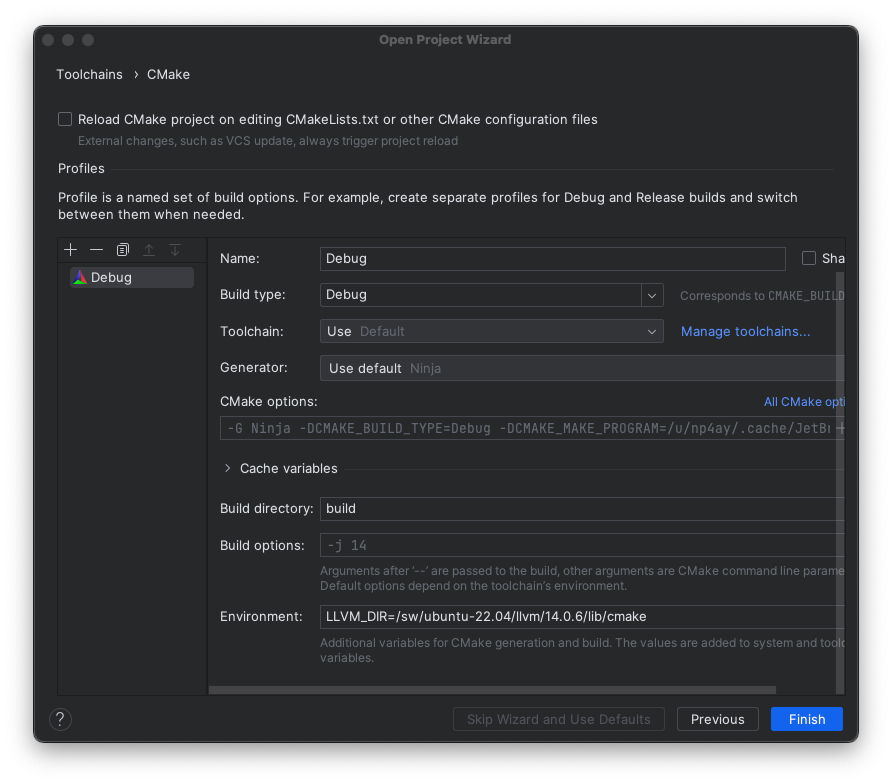
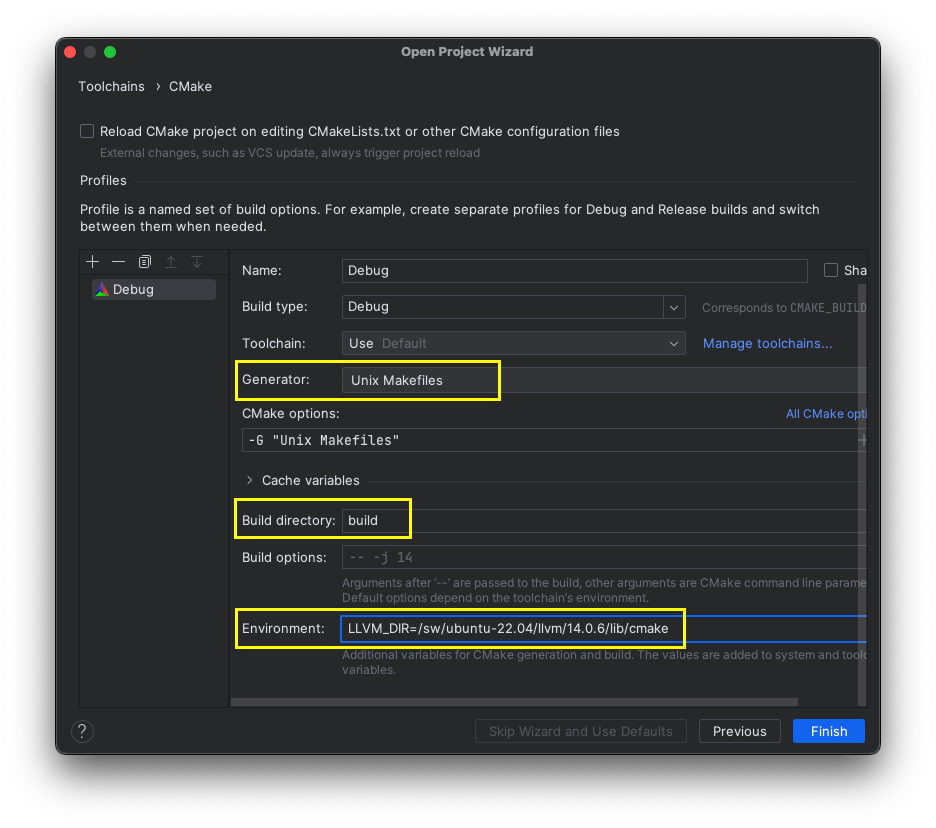
update screenshot to use makefile

Changed region(s): [[0.0303, 0.0306, 0.9686, 0.9796], [0.2422, 0.3061, 0.3027, 0.3367]]

diff --git a/docs/clion_thin_client.md b/docs/clion_thin_client.md
@@ -70,8 +70,8 @@ the `topdir` variable in `conf/modules/tipc/F23` to the actual location of the
 To confirm the module was successfully loaded check the value of the `TIPCLANG`
 environment variable.  
 ```bash
-$ echo $TIPCLANG
-/sw/ubuntu-22.04/llvm/14.0.6/bin/clang-14
+echo $TIPCLANG
+# /sw/ubuntu-22.04/llvm/14.0.6/bin/clang-14
 ```
 
 To load the `tipc` environment every time you ssh to portal, add the `module
@@ -121,7 +121,7 @@ setup.
 
 If preferred, you can prevent the connection from being dropped for inactivity. Under "Connection Parameters" check the "Send keep-alive messages..." box.  
 
-Select "Test Conneection" to verify you can establish a connection.  
+Select "Test Connection" to verify you can establish a connection.  
 
 \image html gateway_ssh_configuration_connection_success.png
 
@@ -150,8 +150,8 @@ environment within CLion.
 
 From the "Project Wizard" popup accept the default toolchain by pressing "Next".  
 
-On the following page, update the default CMake profile to use `build` as the
-"Build directory" and set the "Environment" field to
+Update the default CMake profile on the following page. Set the "Generator" to
+"Unix Makefiles", the "Build directory" to `build`, and the "Environment" to
 `LLVM_DIR=/sw/ubuntu-22.04/llvm/14.0.6/lib/cmake`. Select "Finish".    
 
 \image html client_wizard_cmake.png
